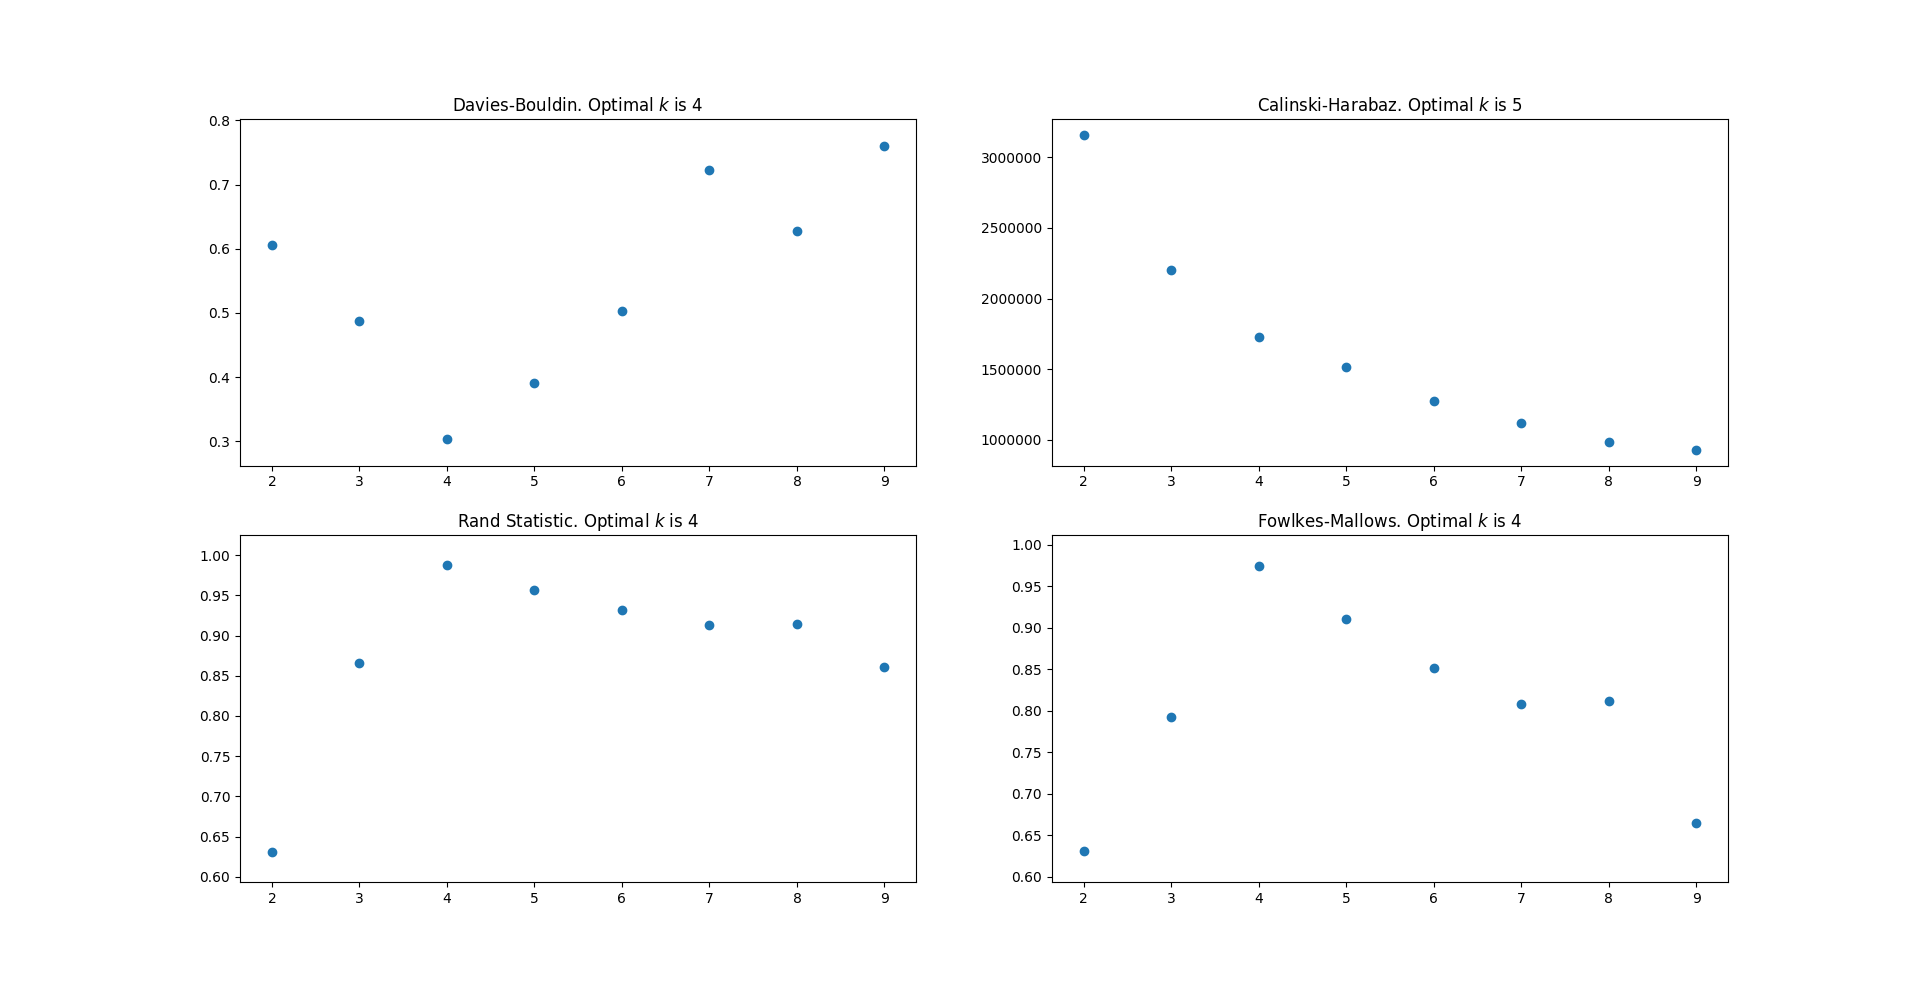
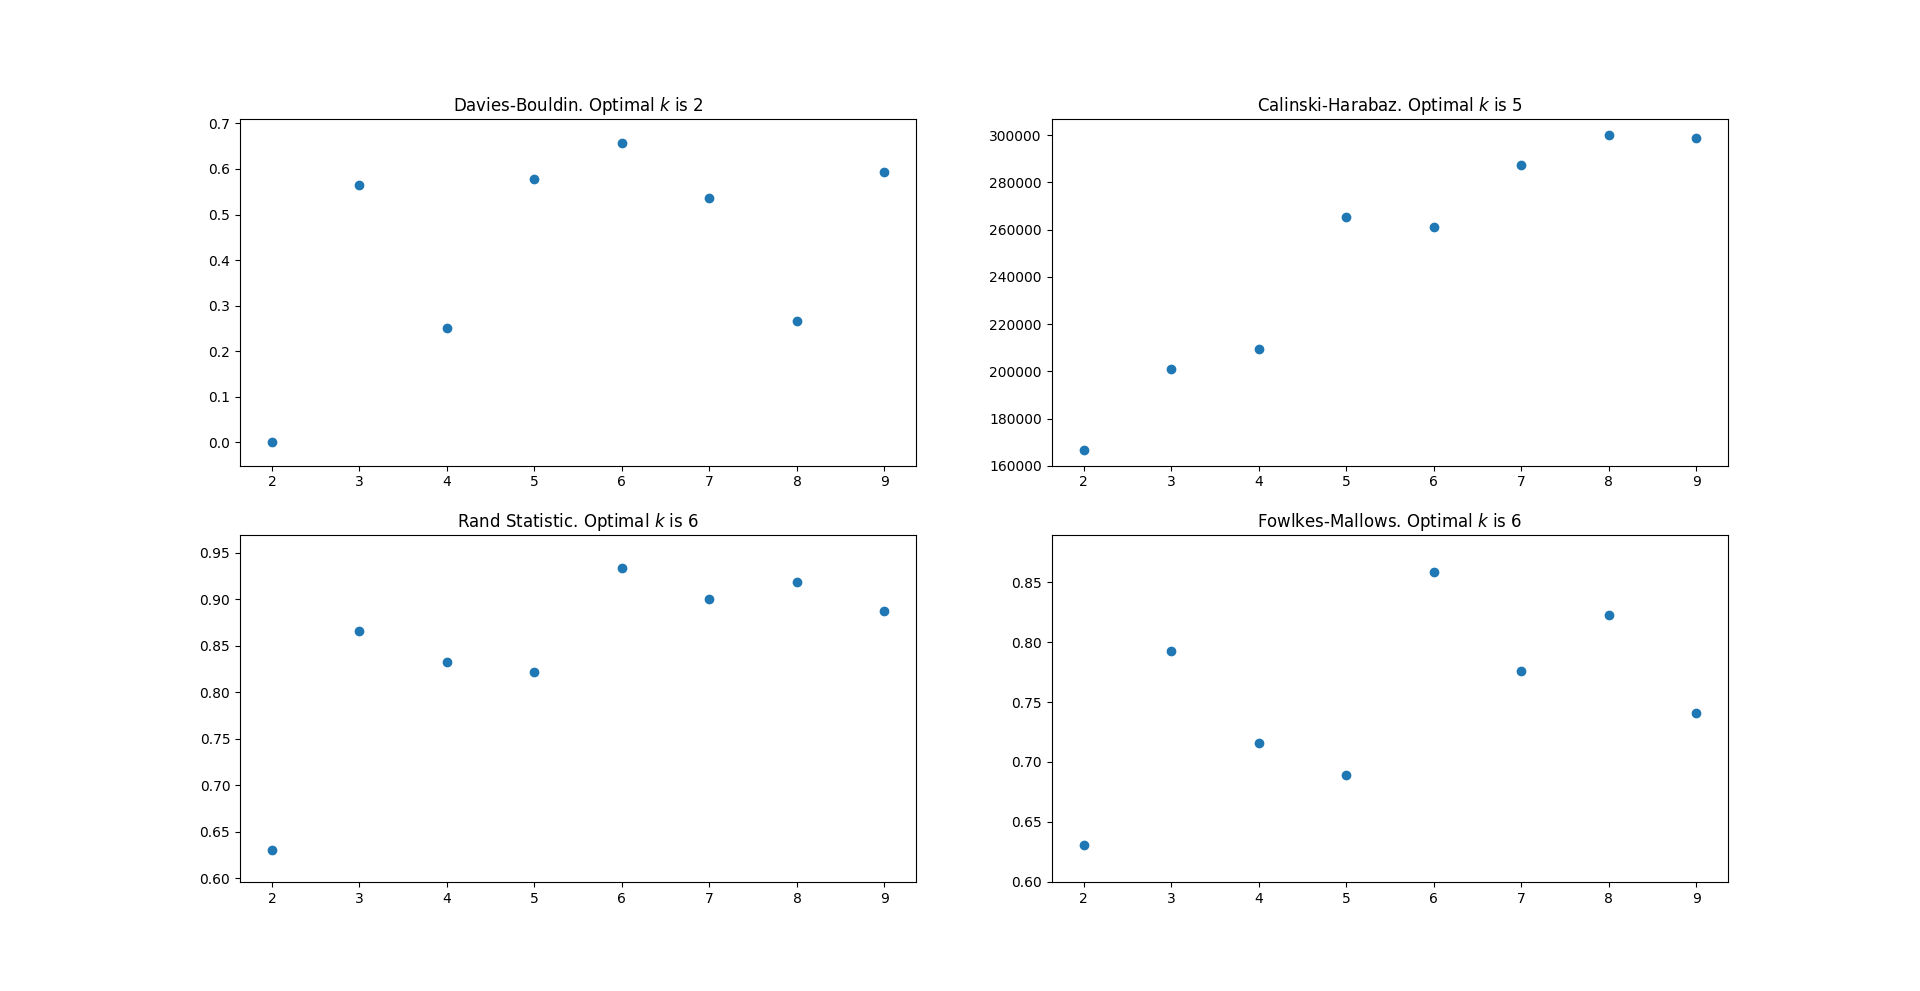
Fix precision error for Calinski-Harabaz index

diff --git a/kmeans/kmeansAndMetrics.py b/kmeans/kmeansAndMetrics.py
@@ -30,7 +30,7 @@ def kmeans(data, num_of_clusters, max_iter, attempts=3):
             cur_iter += 1
             cur_functional = np.linalg.norm(centers - prev_centers)
 
-        attempt_results.append((cur_functional, np.asarray(centers, dtype=np.uint8), closest_clusters))
+        attempt_results.append((cur_functional, np.asarray(centers, dtype=np.uint16), closest_clusters))
 
     best_answer = (10_000, [], [])
     for attempt in attempt_results:
@@ -71,6 +71,7 @@ def calinski_harabaz_index(data, centers, closest_clusters, num_of_clusters):
     mean = np.mean(data, axis=0)
     between_disp = np.sum([len(data[closest_clusters == i]) * ((centers[i] - mean) ** 2)
                            for i in range(num_of_clusters)])
+
     return between_disp / within_disp * (data_size - num_of_clusters) / (num_of_clusters - 1)
 
 

diff --git a/kmeans/kmeansMetricsRunner.py b/kmeans/kmeansMetricsRunner.py
@@ -50,7 +50,7 @@ iteration_number = 200
 best_cluster_number = (best_calinski_harabaz_cluster_number + best_davies_bouldin_cluster_number) // 2
 centers, closest_clusters = kmeansAndMetrics.kmeans(X, best_cluster_number, iteration_number)
 
-new_X = np.vstack([centers[i] for i in closest_clusters])
+new_X = np.vstack([centers[i] for i in closest_clusters]).astype(np.uint8)
 new_image = new_X.reshape(image.shape)
 output_image_file = str(best_cluster_number) + '_cluster_policemen_out.jpg'
 Image.fromarray(new_image).save(output_image_file)

diff --git a/kmeans/README.md b/kmeans/README.md
@@ -31,6 +31,6 @@ All pictures are in folder results.
 
 ### Validation
 <p align="center">
-	<img src="https://github.com/IvanTyulyandin/stohasticHomeTask/blob/master/kmeans/results/4_cluster_policemen_out.jpg" alt = "4 clusters">
+	<img src="https://github.com/IvanTyulyandin/stohasticHomeTask/blob/master/kmeans/results/3_cluster_policemen_out.jpg" alt = "3 clusters">
 	<img src="https://github.com/IvanTyulyandin/stohasticHomeTask/blob/master/kmeans/results/metrics.png" alt = "Metrics evaluation">
 </p>
